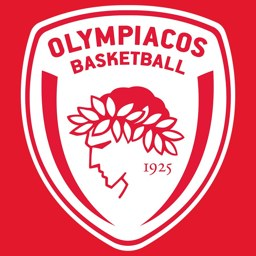
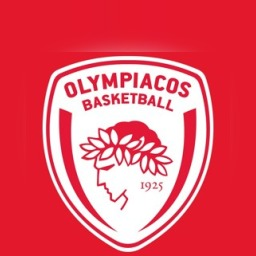
Σήμα Ολυμπιακού: μετατόπιση προς τα κάτω ώστε να φαίνονται τα αστέρια
Claude-Session: https://claude.ai/code/session_01BE28NuiU839gujPCXEFcvf

diff --git a/sw.js b/sw.js
@@ -1,4 +1,4 @@
-const C="thr-v26",SH=["./","manifest.webmanifest","icons/icon-180.png","icons/icon-192.png","icons/icon-512.png","assets/gate7.jpg","assets/oly-football.jpg","assets/oly-basketball.jpg","assets/oly-amateur.png","assets/ball-football.png","assets/ball-basketball.png","assets/ball-polo.png","assets/ball-volleyball.png","assets/ball-handball.png"];
+const C="thr-v27",SH=["./","manifest.webmanifest","icons/icon-180.png","icons/icon-192.png","icons/icon-512.png","assets/gate7.jpg","assets/oly-football.jpg","assets/oly-basketball.jpg","assets/oly-amateur.png","assets/ball-football.png","assets/ball-basketball.png","assets/ball-polo.png","assets/ball-volleyball.png","assets/ball-handball.png"];
 self.addEventListener("install",e=>{e.waitUntil(caches.open(C).then(c=>c.addAll(SH)).then(()=>self.skipWaiting()))});
 self.addEventListener("activate",e=>{e.waitUntil(caches.keys().then(k=>Promise.all(k.filter(x=>x!==C).map(x=>caches.delete(x)))).then(()=>self.clients.claim()))});
 self.addEventListener("fetch",e=>{const r=e.request;if(r.method!=="GET")return;const u=new URL(r.url);if(u.origin!==location.origin)return;
